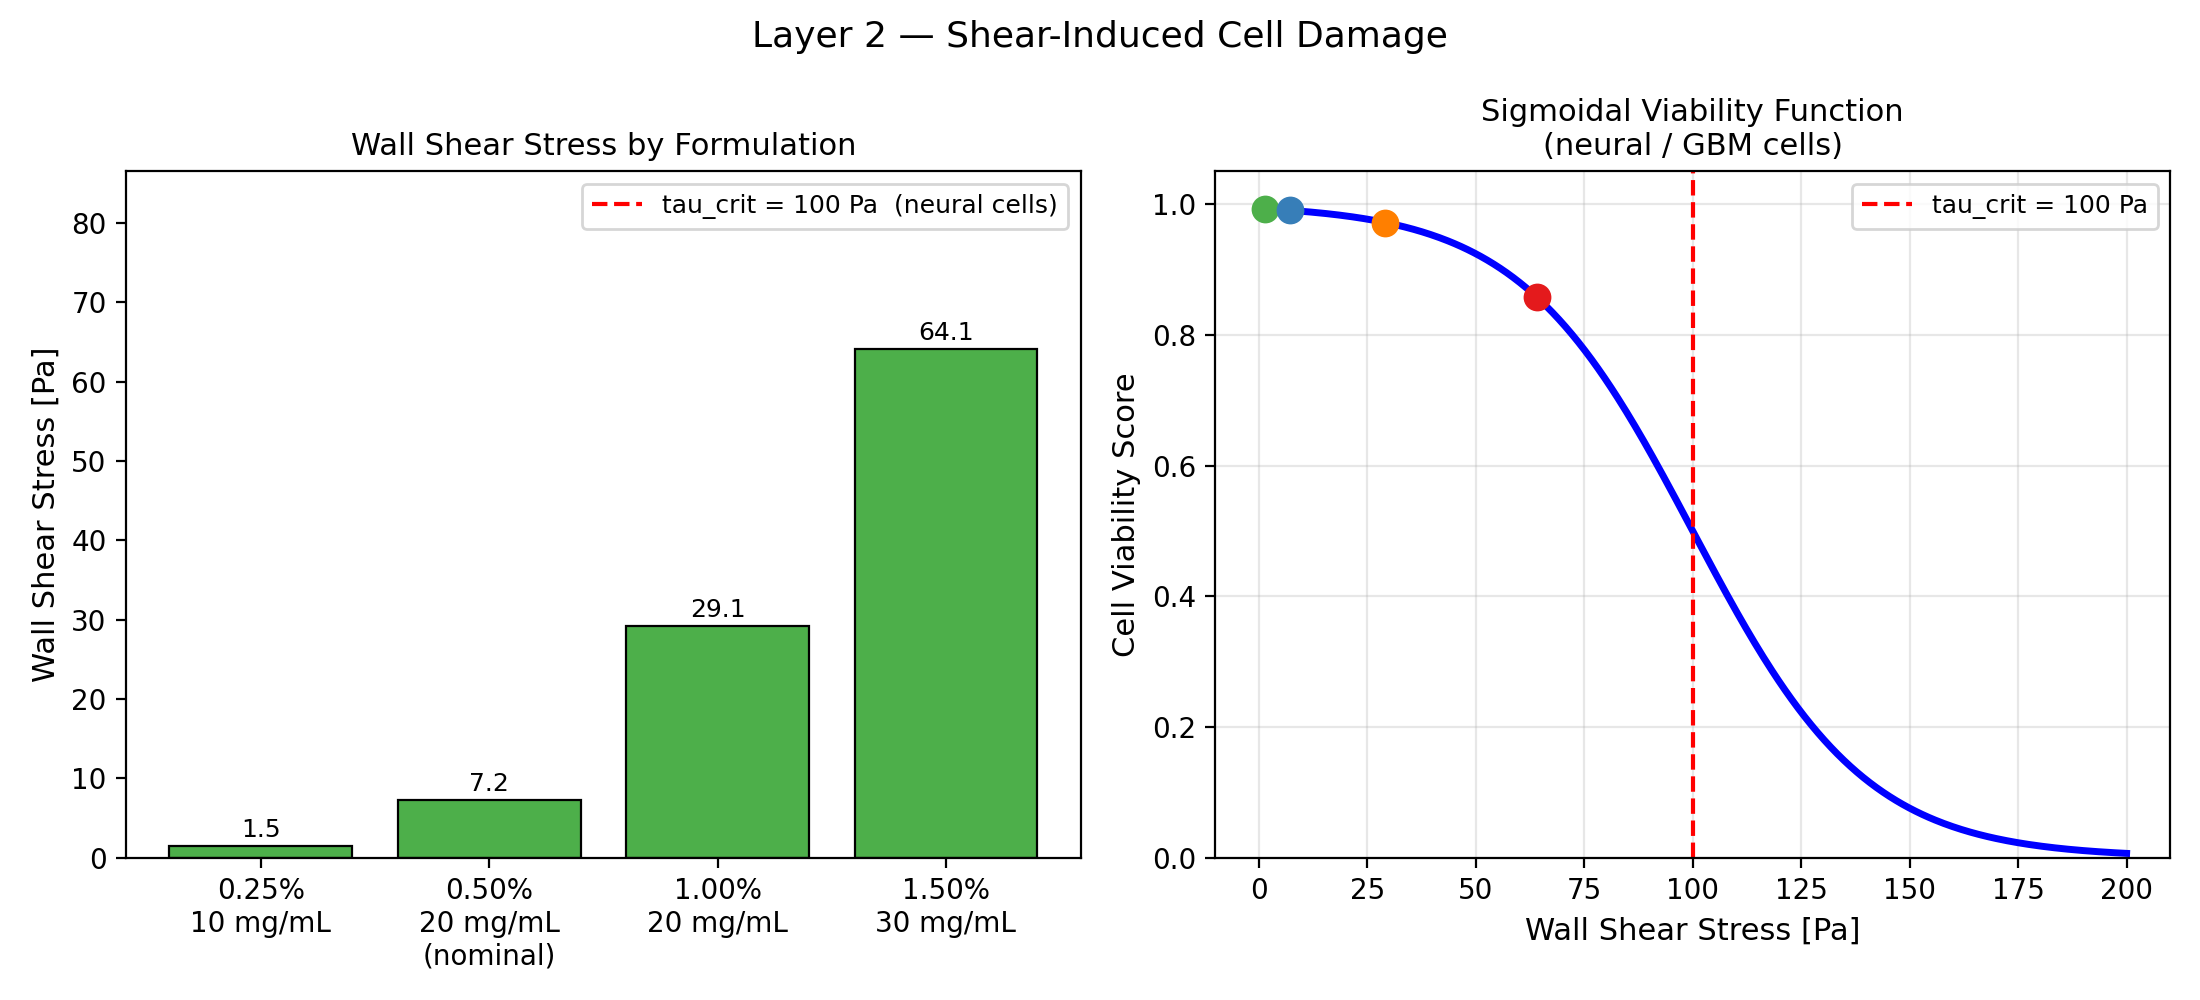
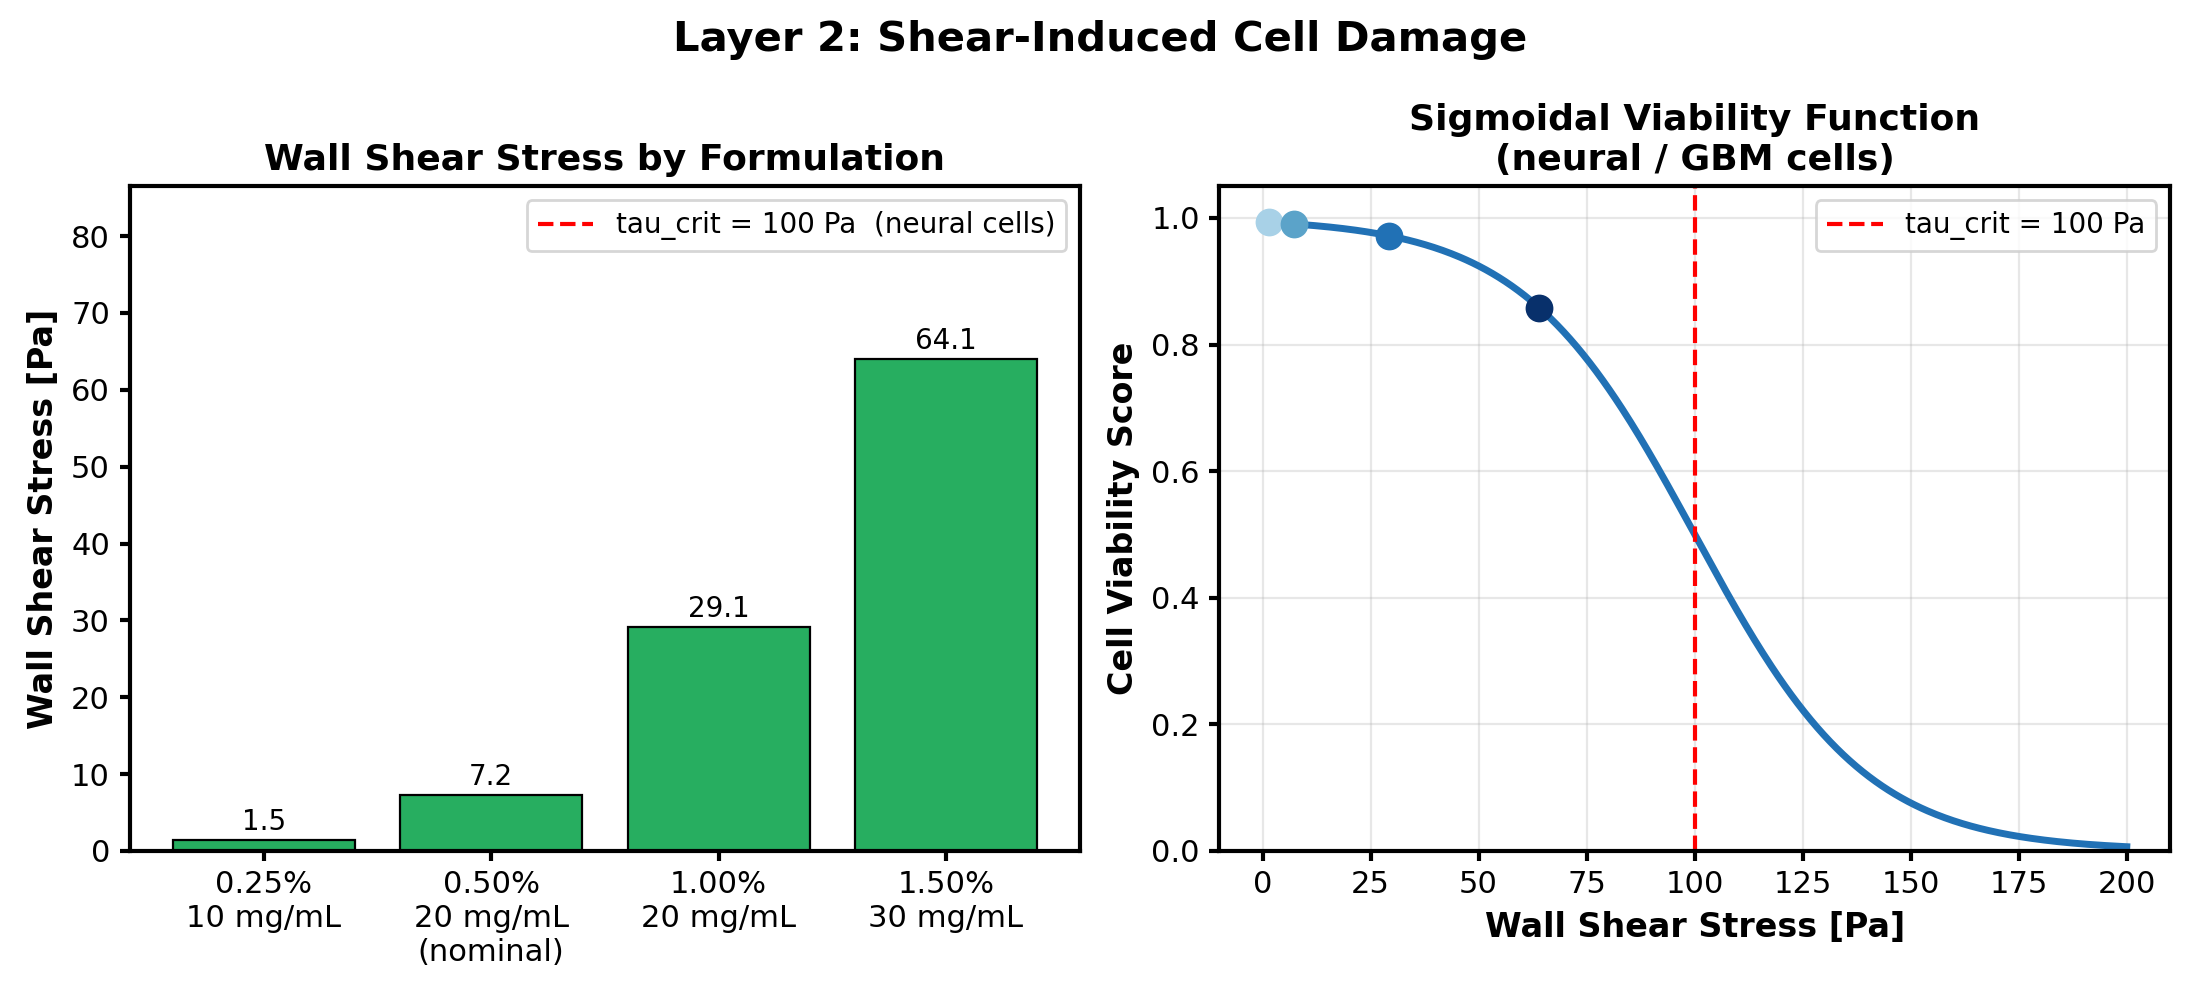
Restyle all layer figures: professional blue palette, bold text, bold spines
- Replace rainbow colors with sequential blue palette across L1-L7
- Pass/fail bars use clean green/red instead of bright primary colors
- Bold titles, axis labels, and graph outlines (spines) on all figures
- Increase font sizes for readability
- Fix em dashes to colons in all figure titles

diff --git a/layer5_shape.py b/layer5_shape.py
@@ -94,7 +94,7 @@ def plot(save_path: str = "figures/layer5_shape.png"):
         (1.00, 20,  "1.00%\n20 mg/mL"),
         (1.50, 30,  "1.50%\n30 mg/mL"),
     ]
-    colors = ["#4daf4a", "#377eb8", "#ff7f00", "#e41a1c"]
+    colors = ["#a8d1e7", "#5ba3c9", "#2171b5", "#08306b"]
 
     results   = [run(c_alg, c_fib) for c_alg, c_fib, _ in test_points]
     sfs       = [r["shape_fidelity"] for r in results]
@@ -105,34 +105,40 @@ def plot(save_path: str = "figures/layer5_shape.png"):
     fig, (ax1, ax2) = plt.subplots(1, 2, figsize=(11, 5))
 
     # --- Left: SF index bars (SF > 1 = good = green) ---
-    bar_colors = ["#4daf4a" if sf > 1 else "#e41a1c" for sf in sfs]
+    bar_colors = ["#27ae60" if sf > 1 else "#c0392b" for sf in sfs]
     bars = ax1.bar(labels, sfs, color=bar_colors, edgecolor="k", linewidth=0.8)
     ax1.axhline(1.0, color="red", linestyle="--", linewidth=1.5,
                 label="SF = 1.0  (gelation = spreading)")
     for bar, sf in zip(bars, sfs):
         ax1.text(bar.get_x() + bar.get_width() / 2,
                  bar.get_height() + max(sfs) * 0.02,
-                 f"{sf:.4f}", ha="center", va="bottom", fontsize=9)
-    ax1.set_ylabel("Shape Fidelity Index  SF = t_spread / t_gel", fontsize=10)
-    ax1.set_title("Shape Fidelity Index\n(SF > 1 = good; green = gels before spreading)", fontsize=11)
-    ax1.legend(fontsize=9)
+                 f"{sf:.4f}", ha="center", va="bottom", fontsize=10)
+    ax1.set_ylabel("Shape Fidelity Index  SF = t_spread / t_gel", fontsize=12, fontweight="bold")
+    ax1.set_title("Shape Fidelity Index\n(SF > 1 = good; green = gels before spreading)", fontsize=13, fontweight="bold")
+    ax1.legend(fontsize=10)
+    for spine in ax1.spines.values():
+        spine.set_linewidth(1.5)
+    ax1.tick_params(width=1.5, labelsize=11)
 
     # --- Right: t_gel vs t_spread (log scale) ---
     x = np.arange(len(labels))
     w = 0.35
     ax2.bar(x - w / 2, t_gels,    w, label="t_gel [s]  (diffusion-limited)",
-            color="#377eb8", edgecolor="k")
+            color="#2171b5", edgecolor="k")
     ax2.bar(x + w / 2, t_spreads, w, label="t_spread [s]  (viscous spreading)",
-            color="#ff7f00", edgecolor="k")
+            color="#e67e22", edgecolor="k")
     ax2.set_xticks(x)
-    ax2.set_xticklabels(labels, fontsize=9)
+    ax2.set_xticklabels(labels, fontsize=10)
     ax2.set_yscale("log")
-    ax2.set_ylabel("Time [s]  (log scale)", fontsize=11)
-    ax2.set_title("Diffusion t_gel vs Viscous t_spread\n(gap narrows at high alginate)", fontsize=11)
-    ax2.legend(fontsize=9)
+    ax2.set_ylabel("Time [s]  (log scale)", fontsize=12, fontweight="bold")
+    ax2.set_title("Diffusion t_gel vs Viscous t_spread\n(gap narrows at high alginate)", fontsize=13, fontweight="bold")
+    ax2.legend(fontsize=10)
     ax2.grid(True, which="both", axis="y", alpha=0.3)
+    for spine in ax2.spines.values():
+        spine.set_linewidth(1.5)
+    ax2.tick_params(width=1.5, labelsize=11)
 
-    fig.suptitle("Layer 5 — Filament Shape Fidelity  (diffusion-limited gelation)", fontsize=13)
+    fig.suptitle("Layer 5: Filament Shape Fidelity (diffusion-limited gelation)", fontsize=15, fontweight="bold")
     fig.tight_layout()
     fig.savefig(save_path, dpi=200)
     print(f"Saved {save_path}")

diff --git a/layer2_shear.py b/layer2_shear.py
@@ -69,12 +69,12 @@ def plot(save_path: str = "figures/layer2_shear.png"):
         (1.00, 20,  "1.00%\n20 mg/mL"),
         (1.50, 30,  "1.50%\n30 mg/mL"),
     ]
-    colors = ["#4daf4a", "#377eb8", "#ff7f00", "#e41a1c"]
+    colors = ["#a8d1e7", "#5ba3c9", "#2171b5", "#08306b"]
 
     results = [run(c_alg, c_fib) for c_alg, c_fib, _ in test_points]
     taus      = [r["tau_wall"]        for r in results]
     viabs     = [r["viability_shear"] for r in results]
-    bar_colors = ["#4daf4a" if t < tau_crit else "#e41a1c" for t in taus]
+    bar_colors = ["#27ae60" if t < tau_crit else "#c0392b" for t in taus]
     labels    = [p[2] for p in test_points]
 
     fig, (ax1, ax2) = plt.subplots(1, 2, figsize=(11, 5))
@@ -85,28 +85,34 @@ def plot(save_path: str = "figures/layer2_shear.png"):
                 label=f"tau_crit = {tau_crit:.0f} Pa  (neural cells)")
     for bar, tau in zip(bars, taus):
         ax1.text(bar.get_x() + bar.get_width() / 2, bar.get_height() + 0.5,
-                 f"{tau:.1f}", ha="center", va="bottom", fontsize=9)
-    ax1.set_ylabel("Wall Shear Stress [Pa]", fontsize=11)
-    ax1.set_title("Wall Shear Stress by Formulation", fontsize=11)
-    ax1.legend(fontsize=9)
+                 f"{tau:.1f}", ha="center", va="bottom", fontsize=10)
+    ax1.set_ylabel("Wall Shear Stress [Pa]", fontsize=12, fontweight="bold")
+    ax1.set_title("Wall Shear Stress by Formulation", fontsize=13, fontweight="bold")
+    ax1.legend(fontsize=10)
     ax1.set_ylim(0, max(taus) * 1.35)
+    for spine in ax1.spines.values():
+        spine.set_linewidth(1.5)
+    ax1.tick_params(width=1.5, labelsize=11)
 
     # --- Right: sigmoidal viability curve ---
     tau_range = np.linspace(0, 200, 400)
     viab_curve = np.array([cell_viability_shear(t) for t in tau_range])
-    ax2.plot(tau_range, viab_curve, "b-", linewidth=2.5)
+    ax2.plot(tau_range, viab_curve, color="#2171b5", linewidth=2.5)
     ax2.axvline(tau_crit, color="red", linestyle="--", linewidth=1.5,
                 label=f"tau_crit = {tau_crit:.0f} Pa")
     for (c_alg, c_fib, _), color, tau, viab in zip(test_points, colors, taus, viabs):
         ax2.plot(tau, viab, "o", color=color, markersize=9, zorder=5)
-    ax2.set_xlabel("Wall Shear Stress [Pa]", fontsize=11)
-    ax2.set_ylabel("Cell Viability Score", fontsize=11)
-    ax2.set_title("Sigmoidal Viability Function\n(neural / GBM cells)", fontsize=11)
-    ax2.legend(fontsize=9)
+    ax2.set_xlabel("Wall Shear Stress [Pa]", fontsize=12, fontweight="bold")
+    ax2.set_ylabel("Cell Viability Score", fontsize=12, fontweight="bold")
+    ax2.set_title("Sigmoidal Viability Function\n(neural / GBM cells)", fontsize=13, fontweight="bold")
+    ax2.legend(fontsize=10)
     ax2.set_ylim(0, 1.05)
     ax2.grid(True, alpha=0.3)
+    for spine in ax2.spines.values():
+        spine.set_linewidth(1.5)
+    ax2.tick_params(width=1.5, labelsize=11)
 
-    fig.suptitle("Layer 2 — Shear-Induced Cell Damage", fontsize=13)
+    fig.suptitle("Layer 2: Shear-Induced Cell Damage", fontsize=15, fontweight="bold")
     fig.tight_layout()
     fig.savefig(save_path, dpi=200)
     print(f"Saved {save_path}")

diff --git a/layer6_stiffness.py b/layer6_stiffness.py
@@ -59,7 +59,7 @@ def plot(save_path: str = "figures/layer6_stiffness.png"):
         (1.00, 20,  "1.00%\n20 mg/mL"),
         (1.50, 30,  "1.50%\n30 mg/mL"),
     ]
-    colors  = ["#4daf4a", "#377eb8", "#ff7f00", "#e41a1c"]
+    colors  = ["#a8d1e7", "#5ba3c9", "#2171b5", "#08306b"]
     results = [run(c_alg, c_fib) for c_alg, c_fib, _ in test_points]
     G_vals  = [r["G_prime"]             for r in results]
     scores  = [r["stiffness_viability"] for r in results]
@@ -73,28 +73,34 @@ def plot(save_path: str = "figures/layer6_stiffness.png"):
                 label=f"G_opt = {G_prime_opt:.0f} Pa  (brain tissue)")
     for bar, G in zip(bars, G_vals):
         ax1.text(bar.get_x() + bar.get_width() / 2, bar.get_height() + 1,
-                 f"{G:.1f}", ha="center", va="bottom", fontsize=9)
-    ax1.set_ylabel("Storage Modulus G' [Pa]", fontsize=11)
-    ax1.set_title("Initial Gel Stiffness\nby Formulation", fontsize=11)
-    ax1.legend(fontsize=9)
+                 f"{G:.1f}", ha="center", va="bottom", fontsize=10)
+    ax1.set_ylabel("Storage Modulus G' [Pa]", fontsize=12, fontweight="bold")
+    ax1.set_title("Initial Gel Stiffness\nby Formulation", fontsize=13, fontweight="bold")
+    ax1.legend(fontsize=10)
+    for spine in ax1.spines.values():
+        spine.set_linewidth(1.5)
+    ax1.tick_params(width=1.5, labelsize=11)
 
     # --- Right: Gaussian mechanosensing curve ---
     G_range = np.linspace(0, 900, 500)
     M_curve = np.array([stiffness_viability(g) for g in G_range])
-    ax2.plot(G_range, M_curve, "b-", linewidth=2.5, label="Mechanosensing score M(G')")
+    ax2.plot(G_range, M_curve, color="#2171b5", linewidth=2.5, label="Mechanosensing score M(G')")
     ax2.axvline(G_prime_opt, color="red", linestyle="--", linewidth=1.5,
                 label=f"G_opt = {G_prime_opt:.0f} Pa")
     for (c_alg, c_fib, lbl), color, G, score in zip(test_points, colors, G_vals, scores):
         ax2.plot(G, score, "o", color=color, markersize=9, zorder=5,
                  label=lbl.replace("\n", " "))
-    ax2.set_xlabel("Storage Modulus G' [Pa]", fontsize=11)
-    ax2.set_ylabel("Mechanosensing Score M", fontsize=11)
-    ax2.set_title("Gaussian Mechanosensing Score\nvs Substrate Stiffness", fontsize=11)
-    ax2.legend(fontsize=8, loc="upper right")
+    ax2.set_xlabel("Storage Modulus G' [Pa]", fontsize=12, fontweight="bold")
+    ax2.set_ylabel("Mechanosensing Score M", fontsize=12, fontweight="bold")
+    ax2.set_title("Gaussian Mechanosensing Score\nvs Substrate Stiffness", fontsize=13, fontweight="bold")
+    ax2.legend(fontsize=10, loc="upper right")
     ax2.set_ylim(0, 1.05)
     ax2.grid(True, alpha=0.3)
+    for spine in ax2.spines.values():
+        spine.set_linewidth(1.5)
+    ax2.tick_params(width=1.5, labelsize=11)
 
-    fig.suptitle("Layer 6 — Gel Stiffness & Cell Mechanosensing", fontsize=13)
+    fig.suptitle("Layer 6: Gel Stiffness & Cell Mechanosensing", fontsize=15, fontweight="bold")
     fig.tight_layout()
     fig.savefig(save_path, dpi=200)
     print(f"Saved {save_path}")

diff --git a/layer3_kinetics.py b/layer3_kinetics.py
@@ -86,35 +86,41 @@ def plot(save_path: str = "figures/layer3_kinetics.png"):
     t_gel_vals = [t_gel_diffusion(c)  for c in c_alg_range]
 
     test_points = [(0.25, "0.25%"), (0.50, "0.50% (nom.)"), (1.00, "1.00%"), (1.50, "1.50%")]
-    colors = ["#4daf4a", "#377eb8", "#ff7f00", "#e41a1c"]
+    colors = ["#a8d1e7", "#5ba3c9", "#2171b5", "#08306b"]
 
     fig, (ax1, ax2) = plt.subplots(1, 2, figsize=(11, 5))
 
     # --- Left: Da vs c_alg ---
-    ax1.plot(c_alg_range, Da_vals, "b-", linewidth=2.5)
+    ax1.plot(c_alg_range, Da_vals, color="#2171b5", linewidth=2.5)
     ax1.axhline(1.0, color="red", linestyle="--", linewidth=1.2,
                 label="Da = 1  (reaction-limited threshold)")
     for (c, lbl), col in zip(test_points, colors):
         ax1.plot(c, damkohler_number(c), "o", color=col, markersize=9,
                  zorder=5, label=f"{lbl}  Da={damkohler_number(c):.0f}")
-    ax1.set_xlabel("Alginate Concentration [wt%]", fontsize=11)
-    ax1.set_ylabel("Damkohler Number  Da", fontsize=11)
-    ax1.set_title("Crosslinking Regime\nDa >> 1 = diffusion-limited everywhere", fontsize=11)
-    ax1.legend(fontsize=8)
+    ax1.set_xlabel("Alginate Concentration [wt%]", fontsize=12, fontweight="bold")
+    ax1.set_ylabel("Damkohler Number  Da", fontsize=12, fontweight="bold")
+    ax1.set_title("Crosslinking Regime\nDa >> 1 = diffusion-limited everywhere", fontsize=13, fontweight="bold")
+    ax1.legend(fontsize=10)
     ax1.grid(True, alpha=0.3)
+    for spine in ax1.spines.values():
+        spine.set_linewidth(1.5)
+    ax1.tick_params(width=1.5, labelsize=11)
 
     # --- Right: t_gel_diffusion vs c_alg ---
-    ax2.plot(c_alg_range, t_gel_vals, "b-", linewidth=2.5)
+    ax2.plot(c_alg_range, t_gel_vals, color="#2171b5", linewidth=2.5)
     for (c, lbl), col in zip(test_points, colors):
         ax2.plot(c, t_gel_diffusion(c), "o", color=col, markersize=9, zorder=5,
                  label=f"{lbl}  t_gel={t_gel_diffusion(c):.1f} s")
-    ax2.set_xlabel("Alginate Concentration [wt%]", fontsize=11)
-    ax2.set_ylabel("Diffusion-Limited t_gel [s]", fontsize=11)
-    ax2.set_title("Gelation Time (diffusion-limited)\nIncreases with alginate concentration", fontsize=11)
-    ax2.legend(fontsize=8)
+    ax2.set_xlabel("Alginate Concentration [wt%]", fontsize=12, fontweight="bold")
+    ax2.set_ylabel("Diffusion-Limited t_gel [s]", fontsize=12, fontweight="bold")
+    ax2.set_title("Gelation Time (diffusion-limited)\nIncreases with alginate concentration", fontsize=13, fontweight="bold")
+    ax2.legend(fontsize=10)
     ax2.grid(True, alpha=0.3)
+    for spine in ax2.spines.values():
+        spine.set_linewidth(1.5)
+    ax2.tick_params(width=1.5, labelsize=11)
 
-    fig.suptitle("Layer 3 — Ca-Alginate Crosslinking: Damkohler Analysis", fontsize=13)
+    fig.suptitle("Layer 3: Ca-Alginate Crosslinking: Damkohler Analysis", fontsize=15, fontweight="bold")
     fig.tight_layout()
     fig.savefig(save_path, dpi=200)
     print(f"Saved {save_path}")

diff --git a/layer7_ecm.py b/layer7_ecm.py
@@ -108,7 +108,7 @@ def plot(save_path: str = "figures/layer7_ecm.png"):
         (1.00, 20,  "1.00% alg / 20 mg/mL fib"),
         (1.50, 30,  "1.50% alg / 30 mg/mL fib"),
     ]
-    colors = ["#4daf4a", "#377eb8", "#ff7f00", "#e41a1c"]
+    colors = ["#a8d1e7", "#5ba3c9", "#2171b5", "#08306b"]
 
     fig, (ax1, ax2) = plt.subplots(1, 2, figsize=(12, 5))
 
@@ -120,21 +120,27 @@ def plot(save_path: str = "figures/layer7_ecm.png"):
 
     ax1.axhline(G_prime_opt, color="red", linestyle="--", linewidth=1.5,
                 label=f"G_opt = {G_prime_opt:.0f} Pa  (brain tissue)")
-    ax1.set_xlabel("Culture Time [days]", fontsize=11)
-    ax1.set_ylabel("Effective Modulus G'_eff [Pa]", fontsize=11)
-    ax1.set_title("ECM-Driven Stiffness Evolution\n(30-day culture)", fontsize=11)
-    ax1.legend(fontsize=8)
+    ax1.set_xlabel("Culture Time [days]", fontsize=12, fontweight="bold")
+    ax1.set_ylabel("Effective Modulus G'_eff [Pa]", fontsize=12, fontweight="bold")
+    ax1.set_title("ECM-Driven Stiffness Evolution\n(30-day culture)", fontsize=13, fontweight="bold")
+    ax1.legend(fontsize=10)
     ax1.grid(True, alpha=0.3)
+    for spine in ax1.spines.values():
+        spine.set_linewidth(1.5)
+    ax1.tick_params(width=1.5, labelsize=11)
 
     ax2.axhline(1.0, color="gray", linestyle=":", linewidth=1, alpha=0.5)
-    ax2.set_xlabel("Culture Time [days]", fontsize=11)
-    ax2.set_ylabel("Stiffness Viability Score", fontsize=11)
-    ax2.set_title("Mechanosensing Score Over 30 Days", fontsize=11)
-    ax2.legend(fontsize=8)
+    ax2.set_xlabel("Culture Time [days]", fontsize=12, fontweight="bold")
+    ax2.set_ylabel("Stiffness Viability Score", fontsize=12, fontweight="bold")
+    ax2.set_title("Mechanosensing Score Over 30 Days", fontsize=13, fontweight="bold")
+    ax2.legend(fontsize=10)
     ax2.set_ylim(0, 1.05)
     ax2.grid(True, alpha=0.3)
+    for spine in ax2.spines.values():
+        spine.set_linewidth(1.5)
+    ax2.tick_params(width=1.5, labelsize=11)
 
-    fig.suptitle("Layer 7 — Neural ECM Deposition & Stiffness Evolution", fontsize=13)
+    fig.suptitle("Layer 7: Neural ECM Deposition & Stiffness Evolution", fontsize=15, fontweight="bold")
     fig.tight_layout()
     fig.savefig(save_path, dpi=200)
     print(f"Saved {save_path}")

diff --git a/layer1_viscosity.py b/layer1_viscosity.py
@@ -62,7 +62,7 @@ def plot(save_path: str = "figures/layer1_viscosity.png"):
         (1.00, 20,  "1.00% alg / 20 mg/mL fib"),
         (1.50, 30,  "1.50% alg / 30 mg/mL fib"),
     ]
-    colors = ["#4daf4a", "#377eb8", "#ff7f00", "#e41a1c"]
+    colors = ["#a8d1e7", "#5ba3c9", "#2171b5", "#08306b"]
     gamma_range = np.logspace(0, 3, 300)   # 1 – 1000 1/s
 
     fig, ax = plt.subplots(figsize=(8, 5))
@@ -81,11 +81,14 @@ def plot(save_path: str = "figures/layer1_viscosity.png"):
                label=f"RX1 nozzle  ({gamma_op:.0f} 1/s)")
     ax.plot(gamma_op, eta_op, "k*", markersize=13, zorder=5)
 
-    ax.set_xlabel("Shear Rate [1/s]", fontsize=12)
-    ax.set_ylabel("Apparent Viscosity [Pa·s]", fontsize=12)
-    ax.set_title("Layer 1 — Bioink Viscosity\nPower Law model, fibrin–alginate", fontsize=12)
-    ax.legend(fontsize=9)
+    ax.set_xlabel("Shear Rate [1/s]", fontsize=12, fontweight="bold")
+    ax.set_ylabel("Apparent Viscosity [Pa·s]", fontsize=12, fontweight="bold")
+    ax.set_title("Layer 1: Bioink Viscosity\nPower Law model, fibrin–alginate", fontsize=14, fontweight="bold")
+    ax.legend(fontsize=10)
     ax.grid(True, which="both", alpha=0.3)
+    for spine in ax.spines.values():
+        spine.set_linewidth(1.5)
+    ax.tick_params(width=1.5, labelsize=11)
     fig.tight_layout()
     fig.savefig(save_path, dpi=200)
     print(f"Saved {save_path}")

diff --git a/layer4_diffusion.py b/layer4_diffusion.py
@@ -108,17 +108,20 @@ def plot(save_path: str = "figures/layer4_diffusion.png"):
 
     ax.axvline(R_channel * 1e6, color="k", linestyle=":", linewidth=1.2,
                alpha=0.6, label="Filament surface")
-    ax.set_xlabel("Radial Position [um]", fontsize=12)
-    ax.set_ylabel("Ca2+ Concentration [mol/m3]", fontsize=12)
+    ax.set_xlabel("Radial Position [um]", fontsize=12, fontweight="bold")
+    ax.set_ylabel("Ca2+ Concentration [mol/m3]", fontsize=12, fontweight="bold")
     ax.set_title(
-        "Layer 4 — Ca2+ Radial Diffusion\n"
+        "Layer 4: Ca2+ Radial Diffusion\n"
         "Crosslinking front propagation into the filament (Fick's 2nd Law, cylindrical)",
-        fontsize=11,
+        fontsize=14, fontweight="bold",
     )
     ax.set_xlim(0, R_channel * 1e6)
     ax.set_ylim(0, c_Ca_bath * 1.05)
-    ax.legend(fontsize=9)
+    ax.legend(fontsize=10)
     ax.grid(True, alpha=0.3)
+    for spine in ax.spines.values():
+        spine.set_linewidth(1.5)
+    ax.tick_params(width=1.5, labelsize=11)
     fig.tight_layout()
     fig.savefig(save_path, dpi=200)
     print(f"Saved {save_path}")
